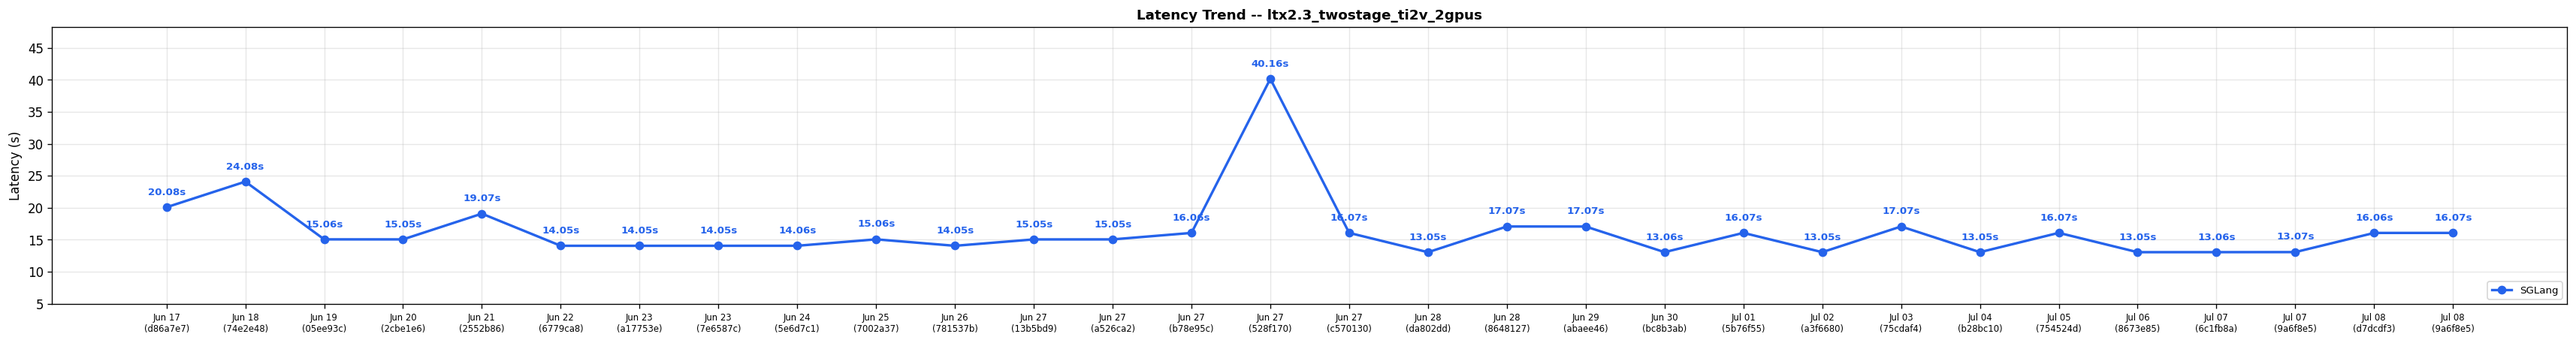
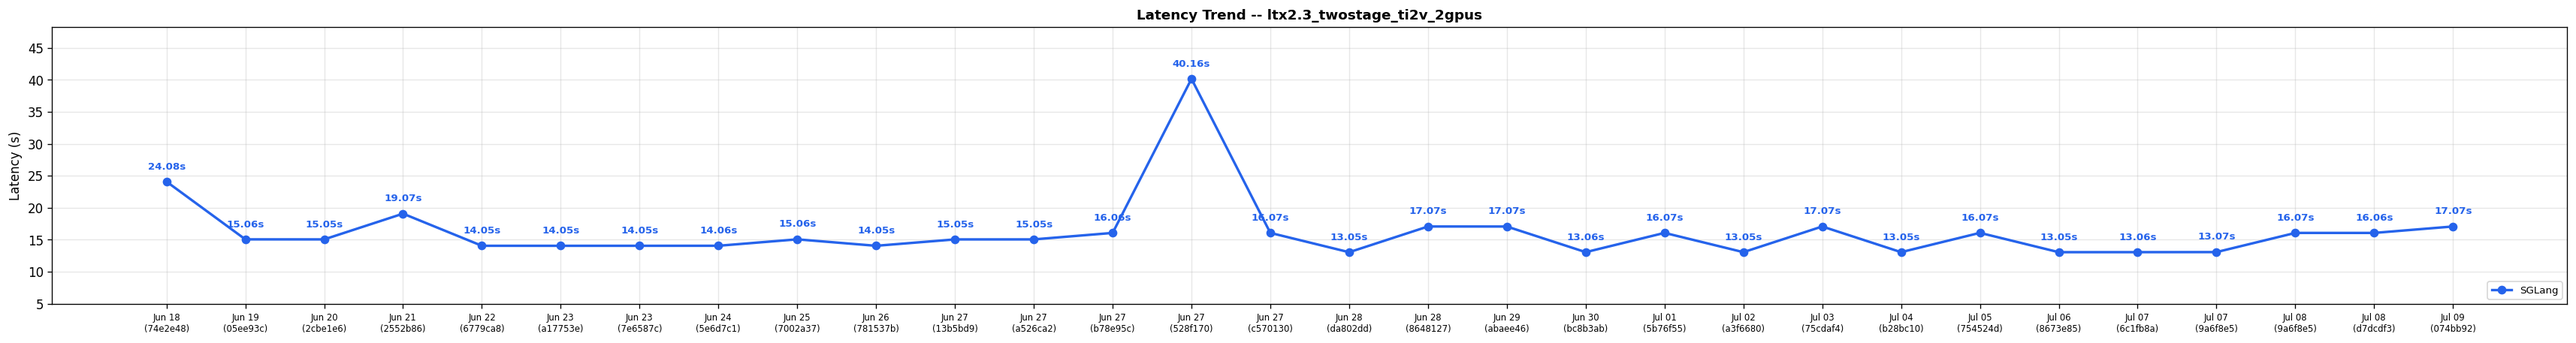
Diffusion comparison results for run 28986113304 (#709)

diff --git a/diffusion-comparisons/dashboard.md b/diffusion-comparisons/dashboard.md
@@ -1,28 +1,28 @@
 # SGLang-Diffusion Nightly Performance Dashboard
 
-*Generated: Jul 08 | Commit: `9a6f8e5`*
+*Generated: Jul 09 | Commit: `074bb92`*
 
 > [!WARNING]
 > **Performance Regression Detected**
 >
-> - **qwen_image_2512_t2i_1024** (sglang): 11.00s -> 11.60s (+5.5%)
+> - **ltx2.3_twostage_ti2v_2gpus** (sglang): 16.06s -> 17.07s (+6.3%)
 
 
 ## SGLang-Diffusion Performance
 
 | Model | Risk | sglang (s) |
 |-------|------|---------|
-| FLUX.1-dev | ✅ | **4.86** |
-| FLUX.2-dev | ✅ | **14.44** |
-| Qwen-Image-2512 | ⚠ | **11.60** |
-| Qwen-Image-Edit-2511 | ✅ | **15.46** |
+| FLUX.1-dev | ✅ | **4.87** |
+| FLUX.2-dev | ✅ | **14.45** |
+| Qwen-Image-2512 | ✅ | **10.74** |
+| Qwen-Image-Edit-2511 | ✅ | **15.41** |
 | Z-Image-Turbo | ✅ | **0.83** |
-| Wan2.2-T2V-A14B-Diffusers | ✅ | **210.71** |
-| Wan2.2-TI2V-5B-Diffusers | ✅ | **65.20** |
-| LTX-2.3 | ⚠ | **16.07** |
+| Wan2.2-T2V-A14B-Diffusers | ✅ | **210.74** |
+| Wan2.2-TI2V-5B-Diffusers | ✅ | **65.24** |
+| LTX-2.3 | ⚠ | **17.07** |
 | ideogram-4-fp8 | ✅ | **5.34** |
-| Cosmos3-Super | ✅ | **116.37** |
-| Wan2.2-I2V-A14B-Diffusers | ✅ | **204.71** |
+| Cosmos3-Super | ✅ | **116.33** |
+| Wan2.2-I2V-A14B-Diffusers | ✅ | **204.68** |
 
 ### Latency Trend: flux1_dev_t2i_1024
 
@@ -83,8 +83,9 @@
 
 | Date | Commit | flux1_dev_t2i_1024 (s) | flux2_dev_t2i_1024 (s) | qwen_image_2512_t2i_1024 (s) | qwen_image_edit_2511 (s) | zimage_turbo_t2i_1024 (s) | wan22_t2v_a14b_720p (s) | wan22_ti2v_5b_720p (s) | ltx2.3_twostage_ti2v_2gpus (s) | ideogram4_fp8_t2i_2gpu (s) | cosmos3_super_t2v_2gpu (s) | wan22_i2v_a14b_720p (s) | Trend |
 |------|--------|---------|---------|---------|---------|---------|---------|---------|---------|---------|---------|---------|-------|
-| Jul 08 | `9a6f8e5` | 4.86 | 14.44 | 11.60 | 15.46 | 0.83 | 210.71 | 65.20 | 16.07 | 5.34 | 116.37 | 204.71 | :left_right_arrow:  :left_right_arrow:  :arrow_up:  :left_right_arrow:  :left_right_arrow:  :left_right_arrow:  :left_right_arrow:  :left_right_arrow:  :left_right_arrow:  :left_right_arrow:  :left_right_arrow: |
-| Jul 08 | `d7dcdf3` | 4.85 | 14.45 | 11.00 | 15.45 | 0.82 | 210.76 | 65.22 | 16.06 | 5.34 | 116.39 | 204.66 | :left_right_arrow:  :left_right_arrow:  :arrow_up:  :left_right_arrow:  :arrow_down:  :left_right_arrow:  :left_right_arrow:  :arrow_up:  :left_right_arrow:  :left_right_arrow:  :left_right_arrow: |
+| Jul 09 | `074bb92` | 4.87 | 14.45 | 10.74 | 15.41 | 0.83 | 210.74 | 65.24 | 17.07 | 5.34 | 116.33 | 204.68 | :left_right_arrow:  :left_right_arrow:  :arrow_down:  :left_right_arrow:  :left_right_arrow:  :left_right_arrow:  :left_right_arrow:  :arrow_up:  :left_right_arrow:  :left_right_arrow:  :left_right_arrow: |
+| Jul 08 | `d7dcdf3` | 4.85 | 14.45 | 11.00 | 15.45 | 0.82 | 210.76 | 65.22 | 16.06 | 5.34 | 116.39 | 204.66 | :left_right_arrow:  :left_right_arrow:  :arrow_down:  :left_right_arrow:  :left_right_arrow:  :left_right_arrow:  :left_right_arrow:  :left_right_arrow:  :left_right_arrow:  :left_right_arrow:  :left_right_arrow: |
+| Jul 08 | `9a6f8e5` | 4.86 | 14.44 | 11.60 | 15.46 | 0.83 | 210.71 | 65.20 | 16.07 | 5.34 | 116.37 | 204.71 | :left_right_arrow:  :left_right_arrow:  :arrow_up:  :left_right_arrow:  :arrow_down:  :left_right_arrow:  :left_right_arrow:  :arrow_up:  :left_right_arrow:  :left_right_arrow:  :left_right_arrow: |
 | Jul 07 | `9a6f8e5` | 4.82 | 14.36 | 8.77 | 15.25 | 2.13 | 210.69 | 64.24 | 13.07 | 5.27 | 115.38 | 203.70 | :left_right_arrow:  :left_right_arrow:  :left_right_arrow:  :left_right_arrow:  :arrow_up:  :left_right_arrow:  :left_right_arrow:  :left_right_arrow:  :left_right_arrow:  :left_right_arrow:  :left_right_arrow: |
 | Jul 07 | `6c1fb8a` | 4.81 | 14.36 | 8.78 | 15.28 | 0.80 | 210.67 | 64.22 | 13.06 | 5.31 | 115.39 | 203.73 | :arrow_down:  :left_right_arrow:  :arrow_down:  :left_right_arrow:  :left_right_arrow:  :left_right_arrow:  :left_right_arrow:  :left_right_arrow:  :left_right_arrow:  :left_right_arrow:  :left_right_arrow: |
 | Jul 06 | `8673e85` | 5.12 | 14.46 | 9.34 | 15.43 | 0.80 | 210.67 | 65.18 | 13.05 | 5.33 | 116.32 | 205.76 | :arrow_up:  :left_right_arrow:  :arrow_down:  :left_right_arrow:  :left_right_arrow:  :left_right_arrow:  :left_right_arrow:  :arrow_down:  :left_right_arrow:  :left_right_arrow:  :left_right_arrow: |
@@ -111,15 +112,13 @@
 | Jun 21 | `2552b86` | 4.67 | 14.33 | 12.74 | 23.63 | 0.65 | 209.38 | 64.15 | 19.07 | N/A | N/A | 204.55 | :left_right_arrow:  :left_right_arrow:  :left_right_arrow:  :left_right_arrow:  :arrow_down:  :left_right_arrow:  :left_right_arrow:  :arrow_up:    :left_right_arrow: |
 | Jun 20 | `2cbe1e6` | 4.65 | 14.33 | 12.78 | 23.63 | 0.66 | 209.30 | 64.20 | 15.05 | N/A | N/A | 205.54 | :arrow_down:  :arrow_down:  :left_right_arrow:  :left_right_arrow:  :arrow_down:  :left_right_arrow:  :left_right_arrow:  :left_right_arrow:    :left_right_arrow: |
 | Jun 19 | `05ee93c` | 6.99 | 24.86 | 12.81 | 23.75 | 0.91 | 209.14 | 65.23 | 15.06 | N/A | N/A | 204.65 | :left_right_arrow:  :left_right_arrow:  :left_right_arrow:  :left_right_arrow:  :left_right_arrow:  :left_right_arrow:  :left_right_arrow:  :arrow_down:    :left_right_arrow: |
-| Jun 18 | `74e2e48` | 6.93 | 24.48 | 12.71 | 23.57 | 0.92 | 209.03 | 64.21 | 24.08 | N/A | N/A | 204.67 | :left_right_arrow:  :left_right_arrow:  :left_right_arrow:  :left_right_arrow:  :left_right_arrow:  :left_right_arrow:  :left_right_arrow:  :arrow_up:    :left_right_arrow: |
-| Jun 17 | `d86a7e7` | 6.99 | 24.66 | 12.85 | 23.70 | 0.91 | 211.01 | 65.22 | 20.08 | N/A | N/A | 206.64 | -- |
+| Jun 18 | `74e2e48` | 6.93 | 24.48 | 12.71 | 23.57 | 0.92 | 209.03 | 64.21 | 24.08 | N/A | N/A | 204.67 | -- |
 
 > [!CAUTION]
 > **Action Required — Performance Alert**
 >
 > The following cases need attention:
-> - qwen_image_2512_t2i_1024: SGLang regression +21.9% vs 3-run avg (11.60s vs 9.51s)
-> - ltx2.3_twostage_ti2v_2gpus: SGLang regression +14.3% vs 3-run avg (16.07s vs 14.06s)
+> - ltx2.3_twostage_ti2v_2gpus: SGLang regression +13.3% vs 3-run avg (17.07s vs 15.07s)
 
 
 ---
